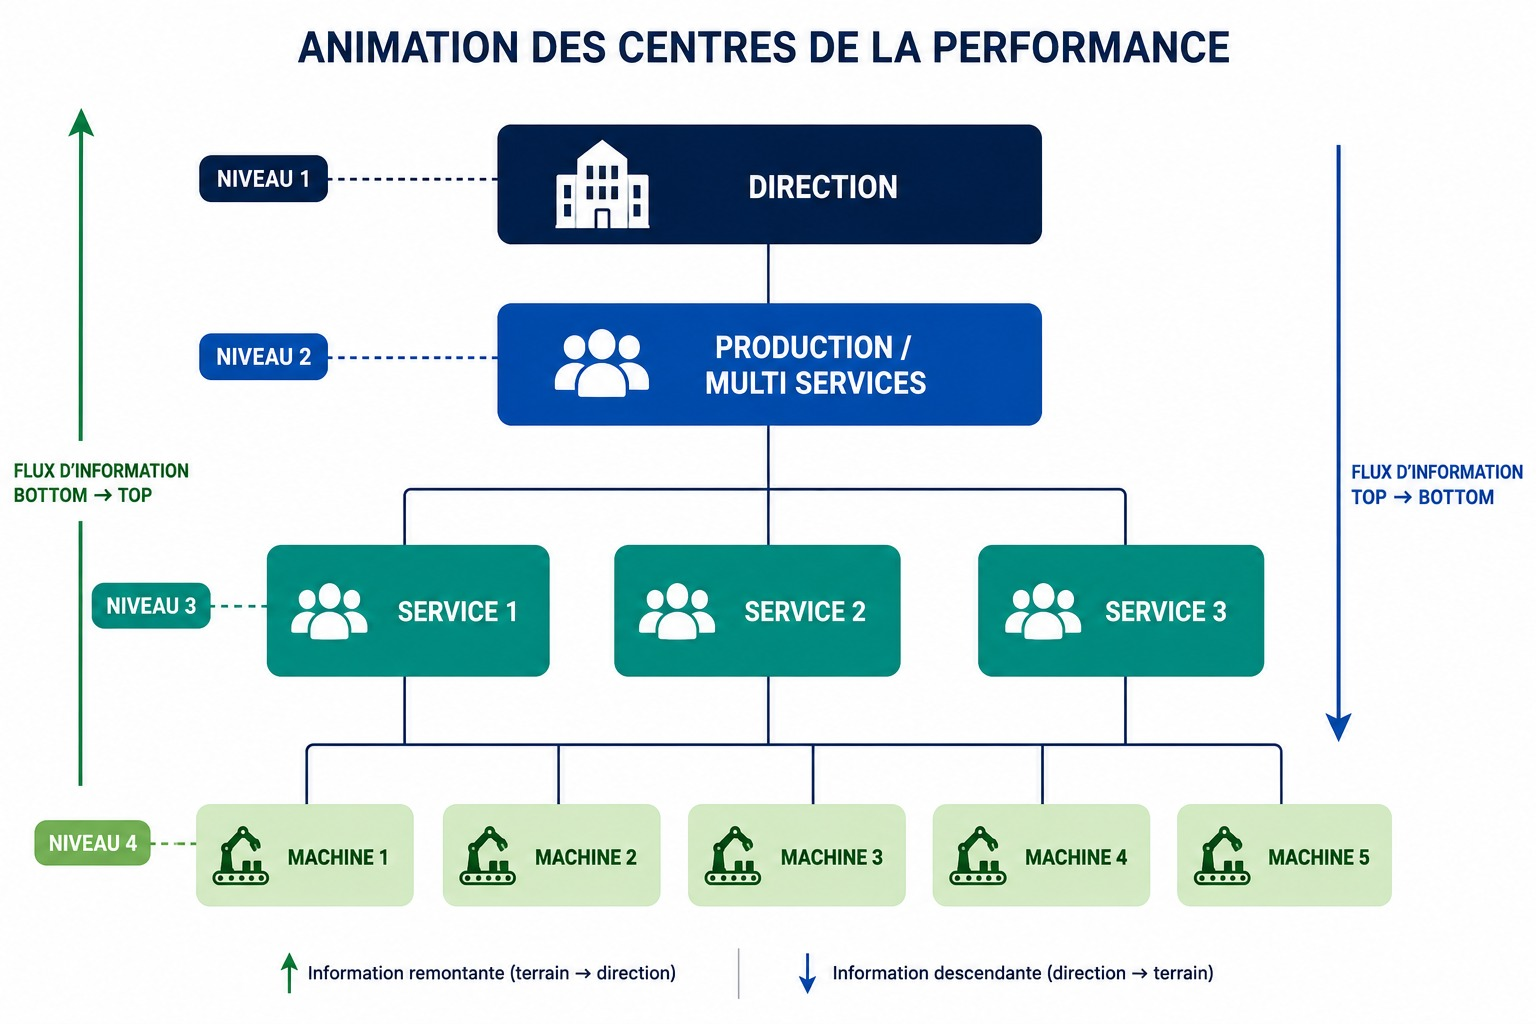
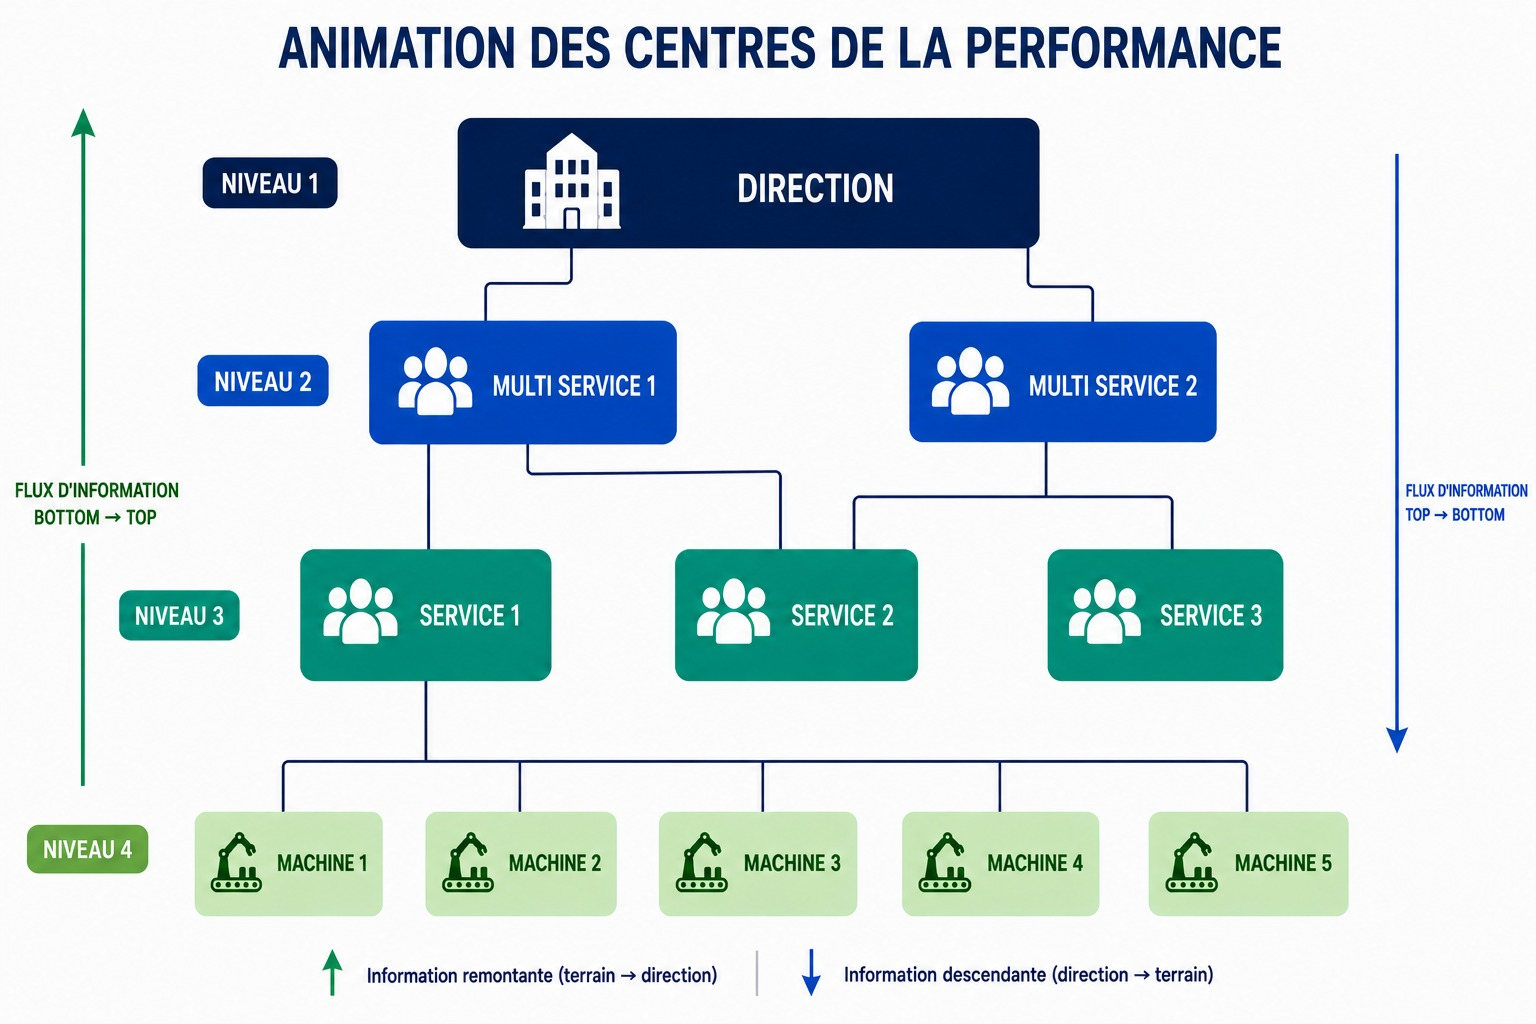
updating all realisations

diff --git a/src/app/savoir-faire/realisations/page.tsx b/src/app/savoir-faire/realisations/page.tsx
@@ -32,13 +32,14 @@ export default function RealisationsPage() {
             {
               id: "01",
               sector: "Performance industrielle — Industrie du carton",
-              title: "Amélioration de la performance d’une ligne de production",
+              title: "Performance d’une ligne de production",
+              objectif:"Améliorer la productivité et fiabiliser une ligne de production d’emballages.",
               context:
-                "Nouvelle ligne de production d’emballage carton mise en service depuis 6 mois, ne répondant pas aux objectifs de disponibilité et de productivité attendus.",
+                "Nouvelle ligne de production d’emballage carton, mise en service depuis 6 mois, ne répondant pas aux objectifs de disponibilité et de productivité attendus.",
               badge: "+40%",
               badgeLabel: "de productivité obtenue",
               metric1: {
-                title: "Productivité",
+                title: "Productivité horaire",
                 rows: [
                   ["Moyenne initiale", "2 500 boîtes/h"],
                   ["Situation stabilisée", "3 500 boîtes/h"],
@@ -50,7 +51,7 @@ export default function RealisationsPage() {
                 rows: [
                   ["Taux de panne initial", "15%"],
                   ["Taux stabilisé", "5%"],
-                  ["Amélioration", "-10 pts"],
+                  ["Amélioration", "10 pts"],
                 ],
               },
               actions: [
@@ -60,7 +61,7 @@ export default function RealisationsPage() {
                 "Check-lists de sécurité",
               ],
               insight:
-                "Les gains ont principalement été obtenus grâce à la structuration des standards terrain et à l’amélioration de la maintenance autonome.",
+                "Les gains ont principalement été obtenus grâce à la structuration des standards terrain et à l’amélioration de la maintenance autonome. Mesures initiales et résultats calculés sur 3 mois",
               duration: "4 mois",
               approach: "TPM • Lean • Standards terrain",
             },
@@ -69,16 +70,17 @@ export default function RealisationsPage() {
               id: "02",
               sector: "Optimisation industrielle — Pôle multi-laboratoires",
               title: "Optimisation d’un pôle multi-laboratoires",
+              objectif:"Optimiser l’utilisation des surfaces et améliorer l’efficience globale, tout en remettant les espaces en conformité avec les normes d’aménagement en vigueur.",
               context:
-                "Pôle de développement composé de 17 laboratoires électroniques au sein d’un site industriel avec objectif de réduction des coûts immobiliers sans perte de productivité.",
-              badge: "-20%",
-              badgeLabel: "de surface utilisée",
+                "Pôle de développement composé de 17 laboratoires électroniques au sein d’un site industriel. Necessite une réduction des coûts immobiliers (location des surfaces) tout en maintenant le niveau de productivité existant.",
+              badge: "+20%",
+              badgeLabel: "de surface disponibles",
               metric1: {
                 title: "Optimisation des surfaces",
                 rows: [
                   ["Surface initiale", "2 500 m²"],
                   ["Surface finale", "2 000 m²"],
-                  ["Gain obtenu", "-500 m² (-20%)"],
+                  ["Gain obtenu", "500 m² (20%)"],
                 ],
               },
               metric2: {
@@ -86,17 +88,17 @@ export default function RealisationsPage() {
                 rows: [
                   ["Capacité initiale", "150 postes"],
                   ["Capacité finale", "162 postes"],
-                  ["Gain obtenu", "+12 postes (+8%)"],
+                  ["Gain obtenu", "12 postes (8%)"],
                 ],
               },
               actions: [
-                "Matrice de maturité des espaces",
+                "Matrice de maturité des espaces pour prioriser les investissements",
                 "Plan d’actions ISO 14001 & ISO 45001",
                 "Remise à niveau des installations électriques",
-                "Réorganisation des espaces selon les normes",
+                "Réorganisation des espaces et mise en conformité selon les normes",
               ],
               insight:
-                "La réorganisation des flux et des espaces a permis de réduire les coûts immobiliers tout en augmentant la capacité opérationnelle.",
+                "Le regroupement des laboratoires par métiers en mutualisant les ressources a permis une réduction de trois laboratoirs (et donc les coûts immobiliers) tout en augmentant la capacité opérationnelle.",
               duration: "9 mois",
               approach: "Lean Layout • QHSE • Optimisation surfaces",
             },
@@ -105,8 +107,9 @@ export default function RealisationsPage() {
               id: "03",
               sector: "Capacité industrielle — Optimisation d’espace",
               title: "Augmentation de capacité d’une ligne de développement",
+              objectif:"Augmenter la capacité de production d’un espace existant en optimisant l’organisation et en adaptant les installations techniques (réseaux et besoins électriques).",
               context:
-                "Croissance continue de l’activité sur un pôle de production arrivé à saturation, nécessitant une augmentation de capacité sans extension des surfaces.",
+                "Croissance continue de l’activité sur un pôle de production avec une perspective de stabilisation. Espace de production arrivé à saturation, nécessitant une augmentation de capacité sans extension de surface disponible.",
               badge: "+13%",
               badgeLabel: "de capacité obtenue",
               metric1: {
@@ -118,38 +121,40 @@ export default function RealisationsPage() {
                 ],
               },
               metric2: {
-                title: "Surface utilisée",
+                title: "Nombre de projets en cours",
                 rows: [
-                  ["Avant projet", "Inchangée"],
-                  ["Après projet", "Inchangée"],
-                  ["Évolution", "="],
+                  ["Avant projet", "13"],
+                  ["Après projet", "17"],
+                  ["Évolution", "Passage à une moyenne de 6 à 5 postes par projet"],
                 ],
               },
               actions: [
-                "Stockages bord de ligne",
-                "Management visuel structuré",
-                "Mise à niveau réseaux & électrique",
-                "Amélioration des standards visuels",
+                "Mutualisation des moyens pour augmenter le nombre de projets",
+                "Mise en place de stockages bord de ligne et d’un management visuel",
+                "Mise à niveau des réseaux et installations électriques",
+                "Réorganisation des espaces",
+                "Amélioration des standards visuels et opérationnels",
               ],
               insight:
                 "L’augmentation de capacité a été réalisée sans extension de surface grâce à une optimisation des implantations et des standards terrain.",
-              duration: "4 mois",
+              duration: "3 mois",
               approach: "Lean Manufacturing • Flux • Implantation",
             },
             {
               id: "04",
               sector: "Performance industrielle — Logistique & Supply Chain",
-              title: "Externalisation des flux logistiques (3PL)",
+              title: "Externalisation logistique (3PL)",
+              objectif:"Recentrer les équipes sur les activités à forte valeur ajoutée et améliorer l’efficience des flux.",
               context:
-                "Des activités d’emballage et de déballage à faible valeur ajoutée ainsi que la gestion d’un stock d’emballages mobilisaient du temps opérateur et de l’espace au détriment de la production.",
+                "Des activités logistiques à faible valeur ajoutée mobilisaient du temps et de l’espace au détriment de la production.",
               badge: "-83%",
               badgeLabel: "de temps d’opérations logistiques",
               metric1: {
-                title: "Temps opérationnel",
+                title: "Temps opérationnel (emballage / déballage)",
                 rows: [
-                  ["Emballage / déballage initial", "6 h / semaine"],
+                  ["Situation initial", "6 h / semaine"],
                   ["Situation après projet", "1 h / semaine"],
-                  ["Gain obtenu", "-5 h (-83%)"],
+                  ["Gain obtenu", "5 h (83%)"],
                 ],
               },
               metric2: {
@@ -157,7 +162,7 @@ export default function RealisationsPage() {
                 rows: [
                   ["Temps stockage initial", "1 h / semaine"],
                   ["Situation après projet", "0 h / semaine"],
-                  ["Amélioration", "-1 h (-100%)"],
+                  ["Amélioration", "1 h (100%)"],
                 ],
               },
               metric3: {
@@ -170,14 +175,12 @@ export default function RealisationsPage() {
               },
               actions: [
                 "Externalisation des opérations vers un prestataire 3PL",
-                "Mise en place de standards et procédures d’emballage / déballage",
+                "Mise en place de standards et procédures logistique",
                 "Formation et accompagnement du prestataire",
-                "Réduction des risques TMS liés à la manutention",
-                "Réallocation des ressources vers des activités à forte valeur ajoutée",
                 "Libération d’espace pour augmenter la surface de production",
               ],
               insight:
-                "Le levier principal a été la suppression des tâches à faible valeur ajoutée en les externalisant, permettant un recentrage immédiat des équipes sur la production.",
+                "Le levier principal a été la suppression des tâches à faible valeur ajoutée en les externalisant, permettant un recentrage immédiat des équipes sur la production.s",
               duration: "5 mois",
               approach: "Lean • Supply Chain • Externalisation 3PL",
             },
@@ -195,7 +198,7 @@ export default function RealisationsPage() {
               <div className="bg-white rounded-3xl shadow-2xl border border-gray-100 overflow-hidden">
 
                 {/* HEADER */}
-                <div className="grid lg:grid-cols-[1fr_220px] gap-10 p-10 md:p-14 border-b border-gray-100">
+                <div className="grid lg:grid-cols-[1fr_220px] gap-10 p-10 md:p-14 border-b border-gray-100 items-start">
 
                   <div>
                     <div className="text-accent font-medium mb-4">
@@ -205,6 +208,18 @@ export default function RealisationsPage() {
                     <h2 className="text-primary text-4xl leading-tight mb-6">
                       {item.title}
                     </h2>
+                    <div className="text-accent font-medium mb-3">
+                      Objectif : 
+                    </div>
+
+                    <p className="text-gray-700 leading-relaxed text-lg">
+                      {item.objectif}
+                    </p>
+                    <br/>
+
+                    <div className="text-accent font-medium mb-3">
+                      Contexte :
+                    </div>
 
                     <p className="text-gray-700 leading-relaxed text-lg">
                       {item.context}
@@ -212,7 +227,8 @@ export default function RealisationsPage() {
                   </div>
 
                   {/* BADGE */}
-                  <div className="bg-primary rounded-2xl p-8 text-white flex flex-col justify-center items-center text-center">
+                  <div className="bg-primary rounded-2xl p-8 text-white flex flex-col justify-center items-center text-center self-start sticky top-10">
+
                     <div className="text-5xl font-bold mb-3">
                       {item.badge}
                     </div>
@@ -220,6 +236,7 @@ export default function RealisationsPage() {
                     <div className="text-white/80 leading-relaxed">
                       {item.badgeLabel}
                     </div>
+
                   </div>
 
                 </div>
@@ -369,7 +386,7 @@ export default function RealisationsPage() {
         <div className="bg-white rounded-3xl shadow-2xl border border-gray-100 overflow-hidden">
 
           {/* HEADER */}
-          <div className="grid lg:grid-cols-[1fr_220px] gap-10 p-10 md:p-14 border-b border-gray-100">
+          <div className="grid lg:grid-cols-[1fr_220px] gap-10 p-10 md:p-14 border-b border-gray-100 items-start">
 
             <div>
               <div className="text-accent font-medium mb-4">
@@ -377,85 +394,57 @@ export default function RealisationsPage() {
               </div>
 
               <h2 className="text-primary text-4xl leading-tight mb-6">
-                Structurer le pilotage et l’animation de la performance 
-                à tous les niveaux de l’organisation, du terrain à la direction.
-                <br />
-                
+                Mise en place d’une animation de la performance
               </h2>
+              <div className="text-accent font-medium mb-3">
+                  Objectif : 
+              </div>
 
               <p className="text-gray-700 leading-relaxed text-lg">
-                L’animation de la performance reposait sur une unique réunion globale, entraînant :
-              <br />
-              <ul className="space-y-4 text-gray-700">
-
-                <li>
-                  • une perte de réactivité face aux problèmes
-                </li>
-
-                <li>
-                  • un manque de circulation de l’information
-                </li>
-
-                <li>
-                  • l’absence d’indicateurs de suivi fiables
-                </li>
-
-                <li>
-                  • une difficulté à identifier et traiter les points durs
-                </li>
-              </ul>
-
+                 Structurer le pilotage de la performance du terrain à la direction.
               </p>
+              <br/>
+              <div className="text-accent font-medium mb-3">
+                  Contexte :
+              </div>
+              <p className="text-gray-700 leading-relaxed text-lg">
+                L’animation de la performance reposait sur une unique réunion globale, entraînant :
+                <br />
+                <ul className="space-y-4 text-gray-700">
+
+                  <li>
+                    • un manque réactivité face aux problèmes
+                  </li>
+
+                  <li>
+                    • une circulation d’information limitée
+                  </li>
+
+                  <li>
+                    • une absence d’indicateurs de suivi fiables
+                  </li>
+
+                  <li>
+                    • une difficulté à identifier et traiter les points durs
+                  </li>
+                </ul>
+                </p>
+
             </div>
 
             {/* BADGE */}
-            <div className="bg-primary rounded-2xl p-8 text-white flex flex-col justify-center items-center text-center">
-              <div className="text-5xl font-bold mb-3">
-                3
-              </div>
-
-              <div className="text-white/80 leading-relaxed">
-                niveaux
-                <br />
-                de pilotage
+            <div className="bg-primary rounded-2xl p-8 text-white flex flex-col justify-center items-center text-center self-start sticky top-10">
+              <div className="text-white/90 font-bold leading-relaxed">
+                Performance  plus réactive<br/> et mieux pillotée <br/>
               </div>
             </div>
 
           </div>
 
           {/* METRICS */}
-          <div className="grid lg:grid-cols-3 gap-8 p-10 md:p-14 bg-light">
+          <div className="grid lg:grid-cols-2 gap-8 p-10 md:p-14 bg-light">
 
-            {/* BLOC 1 */}
-            <div className="bg-white rounded-2xl p-8 shadow-sm">
-
-              <h3 className="text-primary mb-6">
-                Difficultés identifiées
-              </h3>
-
-              <ul className="space-y-4 text-gray-700">
-
-                <li>
-                  • Perte de réactivité face aux problèmes terrain
-                </li>
-
-                <li>
-                  • Manque de circulation de l’information
-                </li>
-
-                <li>
-                  • Absence d’indicateurs de suivi fiables
-                </li>
-
-                <li>
-                  • Difficulté à identifier et traiter les points durs
-                </li>
-
-              </ul>
-
-            </div>
-
-            {/* BLOC 2 = IMAGE */}
+            {/* BLOC 1 = IMAGE */}
             <div className="bg-white rounded-2xl p-4 shadow-sm">
 
               <div className="relative w-full h-full min-h-[320px] rounded-xl overflow-hidden border border-gray-100">
@@ -471,7 +460,7 @@ export default function RealisationsPage() {
 
             </div>
 
-            {/* BLOC 3 */}
+            {/* BLOC 2 */}
             <div className="bg-white rounded-2xl p-8 shadow-sm">
 
               <h3 className="text-primary mb-6">

diff --git a/src/app/page.tsx b/src/app/page.tsx
@@ -246,10 +246,13 @@ export default function Home() {
           {/* CYCLE */}
           <div className="relative">
 
-            {/* LIGNE CENTRALE */}
+            {/* LIGNE HORIZONTALE DESKTOP */}
             <div className="hidden lg:block absolute top-[72px] left-[8%] right-[8%] h-[2px] bg-primary/10" />
 
-            <div className="grid grid-cols-1 sm:grid-cols-2 lg:grid-cols-6 gap-12 lg:gap-6">
+            {/* LIGNE VERTICALE MOBILE */}
+            <div className="lg:hidden absolute top-0 bottom-0 left-1/2 -translate-x-1/2 w-[2px] bg-primary/10" />
+
+            <div className="grid grid-cols-1 lg:grid-cols-6 gap-14 lg:gap-6">
 
               {[
                 "Analyser les flux",
@@ -264,11 +267,6 @@ export default function Home() {
                   key={index}
                   className="relative flex flex-col items-center text-center group"
                 >
-
-                  {/* CONNECTEURS MOBILE */}
-                  {index !== 5 && (
-                    <div className="lg:hidden absolute top-[72px] left-1/2 w-[2px] h-20 bg-primary/10" />
-                  )}
 
                   {/* CERCLE */}
                   <div className="relative z-10 w-36 h-36 rounded-full bg-white border border-primary/10 shadow-lg flex flex-col items-center justify-center transition duration-300 group-hover:scale-105 group-hover:shadow-2xl group-hover:border-accent/30">